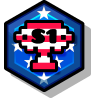
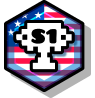
1.2.11
Added Malaysian and Colombian national champions along with the GD Open Cup. Changed the Battle of the States badge to be more in line with the rest of the badges. Edited the versions of the dependencies (does not change the way the mod works).

diff --git a/src/hooks/ProfilePage.cpp b/src/hooks/ProfilePage.cpp
@@ -6,60 +6,6 @@ void GDWTProfilePage::loadPageFromUserInfo(GJUserScore* user) {
     m_fields->playerDataListener.bind(this, &GDWTProfilePage::playersDataRecieved);
 
     m_fields->playerDataListener.setFilter(data::getPlayersData());
-    
-    // auto layer = m_mainLayer;
-        
-    // CCMenu* username_menu = typeinfo_cast<CCMenu*>(layer->getChildByIDRecursive("username-menu"));
-
-    // std::array<int, 3> managmentIDs{
-    //     11684904,
-    //     9074168,
-    //     1380770
-    // };
-
-    // for (int i = 0; i < managmentIDs.size(); i++)
-    // {
-    //     if (managmentIDs[i] == user->m_accountID){
-    //         addManagmentBadge(username_menu);
-    //         break;
-    //     }
-    // }
-
-    // std::array<int, 8> tourneyWinners2024IDs{
-    //     8303773,
-    //     6801276,
-    //     11860237,
-    //     5682434,
-    //     7664649,
-    //     4955259,
-    //     26556060,
-    //     2932785
-    // };
-
-    // for (int i = 0; i < tourneyWinners2024IDs.size(); i++)
-    // {
-    //     if (tourneyWinners2024IDs[i] == user->m_accountID){
-    //         addTourneyWinners2024Badge(username_menu);
-    //         break;
-    //     }
-    // }
-
-    // std::array<int, 4> organizerIDs{
-    //     11582651,
-    //     9074168,
-    //     1380770,
-    //     19729991
-    // };
-
-    // for (int i = 0; i < organizerIDs.size(); i++)
-    // {
-    //     if (organizerIDs[i] == user->m_accountID){
-    //         addOrganizerBadge(username_menu);
-    //         break;
-    //     }
-    // }
-
-    // username_menu->updateLayout();
 }
 
 void GDWTProfilePage::playersDataRecieved(PlayerDataTask::Event* e){
@@ -101,7 +47,7 @@ void GDWTProfilePage::playersDataRecieved(PlayerDataTask::Event* e){
             if (badgeID == "WT-24"){
                 GDWTProfilePage::createBadge(
                     badgeID,
-                    "2024 GD World Champion",
+                    "2024 GDWT Champion",
                     "This player was a member of the South Korea team for the <cl>2024 GD World Tournament</c>. After battling to get out of their group in the group stage, they defeated <cr>Canada</c>, <cb>France</c>, and finally <cg>Mexico</c> to become champions of the inaugural <cl>GD World Tournament</c>.\n\nThe team consisted of <cy>Baeru</c>, <cy>Clutter</c>, <cy>Laniakea</c>, <cy>PoCle</c>, <cy>Guraud</c>, <cy>hanni</c>, <cy>IcaroX</c>, and <cy>Knicide</c>",
                     0
                 );
@@ -116,11 +62,20 @@ void GDWTProfilePage::playersDataRecieved(PlayerDataTask::Event* e){
                 );
             }
 
-            if (badgeID == "PT-24"){
+            if (badgeID == "OC-S1"){
                 GDWTProfilePage::createBadge(
                     badgeID,
-                    "NA",
-                    "No description available for this badge yet...",
+                    "Open Cup S1 Champion",
+                    "This user won the first <cl>GD Open Cup</c>, a 192 person single elimination tournament where the first to complete the level wins.\n\nThey defeated <cg>Remy202</c> in the final.",
+                    -1
+                );
+            }
+
+            if (badgeID == "CO-24"){
+                GDWTProfilePage::createBadge(
+                    badgeID,
+                    "Copa GD Colombia 2024",
+                    "Santhor won the <cy>Copa GD Colombia 2024</c>, defeating <cc>Leven</c> in the final.\n\nThe tournament had <cr>40 participants</c>, and was determined by the players' ability to beat a level as fast as possible given practice.",
                     0
                 );
             }
@@ -128,7 +83,25 @@ void GDWTProfilePage::playersDataRecieved(PlayerDataTask::Event* e){
             if (badgeID == "US-S1"){
                 GDWTProfilePage::createBadge(
                     badgeID,
-                    "NA",
+                    "Battle of the States S1",
+                    "No description available for this badge yet...",
+                    0
+                );
+            }
+
+            if (badgeID == "NL-S1"){
+                GDWTProfilePage::createBadge(
+                    badgeID,
+                    "GDNL Tournament S1",
+                    "No description available for this badge yet...",
+                    0
+                );
+            }
+
+            if (badgeID == "PT-24"){
+                GDWTProfilePage::createBadge(
+                    badgeID,
+                    "2024 GDPT Champion",
                     "No description available for this badge yet...",
                     0
                 );
@@ -137,8 +110,8 @@ void GDWTProfilePage::playersDataRecieved(PlayerDataTask::Event* e){
             if (badgeID == "KR-S1"){
                 GDWTProfilePage::createBadge(
                     badgeID,
-                    "NA",
-                    "No description available for this badge yet...",
+                    "GDKF S1 Champion",
+                    "<cg>Xylitol</c> won the first <cr>GMD Korea Forum</c> championship, with <cg>Kowoo</c> being the runner-up",
                     0
                 );
             }
@@ -146,8 +119,8 @@ void GDWTProfilePage::playersDataRecieved(PlayerDataTask::Event* e){
             if (badgeID == "KR-S2"){
                 GDWTProfilePage::createBadge(
                     badgeID,
-                    "NA",
-                    "No description available for this badge yet...",
+                    "GDKF S2 Champion",
+                    "<cj>TherZ</c> won the second <cr>GMD Korea Forum</c> championship, with <cg>Plasmalust</c> being the runner-up",
                     0
                 );
             }
@@ -155,8 +128,44 @@ void GDWTProfilePage::playersDataRecieved(PlayerDataTask::Event* e){
             if (badgeID == "KR-S3"){
                 GDWTProfilePage::createBadge(
                     badgeID,
-                    "NA",
-                    "No description available for this badge yet...",
+                    "GDKF S3 Champion",
+                    "<cy>DNM121</c> won the third <cr>GMD Korea Forum</c> championship, with <cd>Baeru</c> being the runner-up",
+                    0
+                );
+            }
+
+            if (badgeID == "MY-S1"){
+                GDWTProfilePage::createBadge(
+                    badgeID,
+                    "1st GDMY Tournament",
+                    "<cg>Anglified</c> won the first <cb>GD Malaysia Tournament</c>, with <cb>Koba</c> being the runner-up",
+                    0
+                );
+            }
+
+            if (badgeID == "MY-S2"){
+                GDWTProfilePage::createBadge(
+                    badgeID,
+                    "2022 GDMY Tournament",
+                    "<cr>MADxSG</c> won the <cb>2022 GD Malaysia Tournament</c>, with <cg>FarAwayLand</c> being the runner-up",
+                    0
+                );
+            }
+
+            if (badgeID == "MY-S3"){
+                GDWTProfilePage::createBadge(
+                    badgeID,
+                    "Malaysian Independance Tournament",
+                    "<cj>Fastboi</c> won the <cb>2023 GD Malaysian Independance Day Tournament</c>, with <cr>Zakuya</c> being the runner-up",
+                    0
+                );
+            }
+
+            if (badgeID == "MY-S4"){
+                GDWTProfilePage::createBadge(
+                    badgeID,
+                    "2023 GDMY Tournament",
+                    "<cl>Ryanrolanddd</c> won the <cb>2023 GD Malaysian Tournament</c>, with <cg>partyt</c> being the runner-up",
                     0
                 );
             }

diff --git a/changelog.md b/changelog.md
@@ -1,3 +1,7 @@
+# 1.2.11
+- added badges for more national champions
+- added a badge for the winner of the GD Open Cup
+
 # 1.2.10
 - updated for geode v4.0.1
 - fixed a match sheet bug
